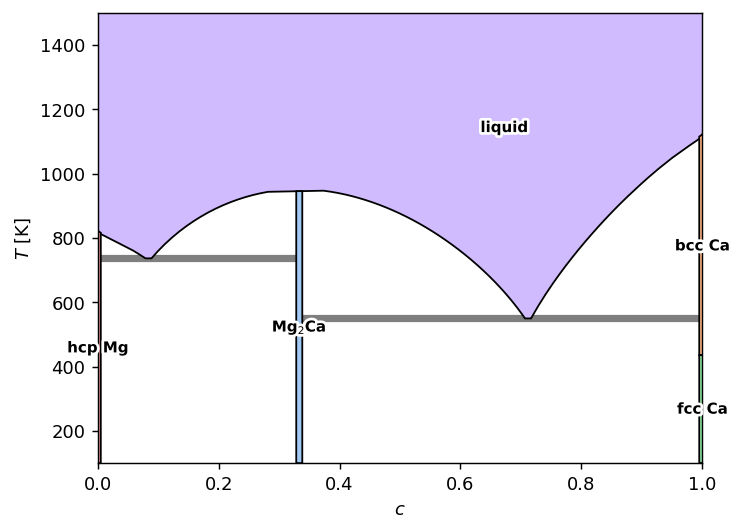
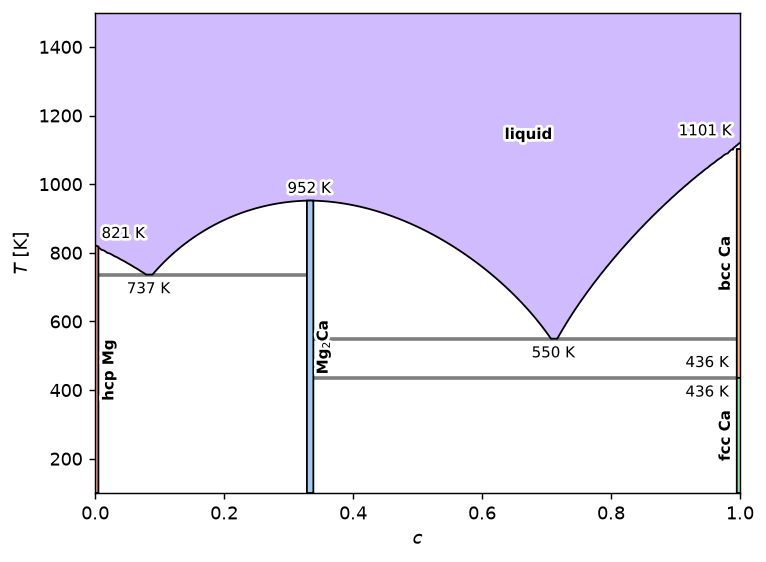
docs: label transition temperatures on the README Mg-Ca diagram (#525)
Re-render docs/images/mgca_phase_diagram.png with
plot_phase_diagram(transition_temperatures=True), and add
scripts/readme_mgca.py, which produces it from
notebooks/MgCa/MgCaPhases.pckl. The image had no generating script.

Claude-Session: https://claude.ai/code/session_0171ibPthoxNi9Y1V8LoFPVj

diff --git a/scripts/readme_mgca.py b/scripts/readme_mgca.py
@@ -1,0 +1,34 @@
+"""
+Render the Mg-Ca phase diagram shown in README.md.
+
+Phases come from the MgCa worked example (notebooks/MgCa/MgCaPhases.pckl); the
+calc_phase_diagram call mirrors the one in notebooks/MgCa/MgCa.ipynb.
+
+Usage
+-----
+    python scripts/readme_mgca.py
+    → writes docs/images/mgca_phase_diagram.png
+"""
+
+import os
+import warnings
+
+import matplotlib
+
+matplotlib.use("Agg")
+import matplotlib.pyplot as plt
+import numpy as np
+import pandas as pd
+
+import landau as ld
+
+ROOT = os.path.dirname(os.path.dirname(os.path.abspath(__file__)))
+
+with warnings.catch_warnings():
+    warnings.simplefilter("ignore", DeprecationWarning)
+    phases = pd.read_pickle(os.path.join(ROOT, "notebooks", "MgCa", "MgCaPhases.pckl"))
+    df = ld.calculate.calc_phase_diagram(phases, Ts=np.linspace(100, 1500, 50), mu=150, keep_unstable=True)
+
+plt.style.use("default")
+ld.plot.plot_phase_diagram(df, transition_temperatures=True)
+plt.savefig(os.path.join(ROOT, "docs", "images", "mgca_phase_diagram.png"), dpi=130, bbox_inches="tight")
